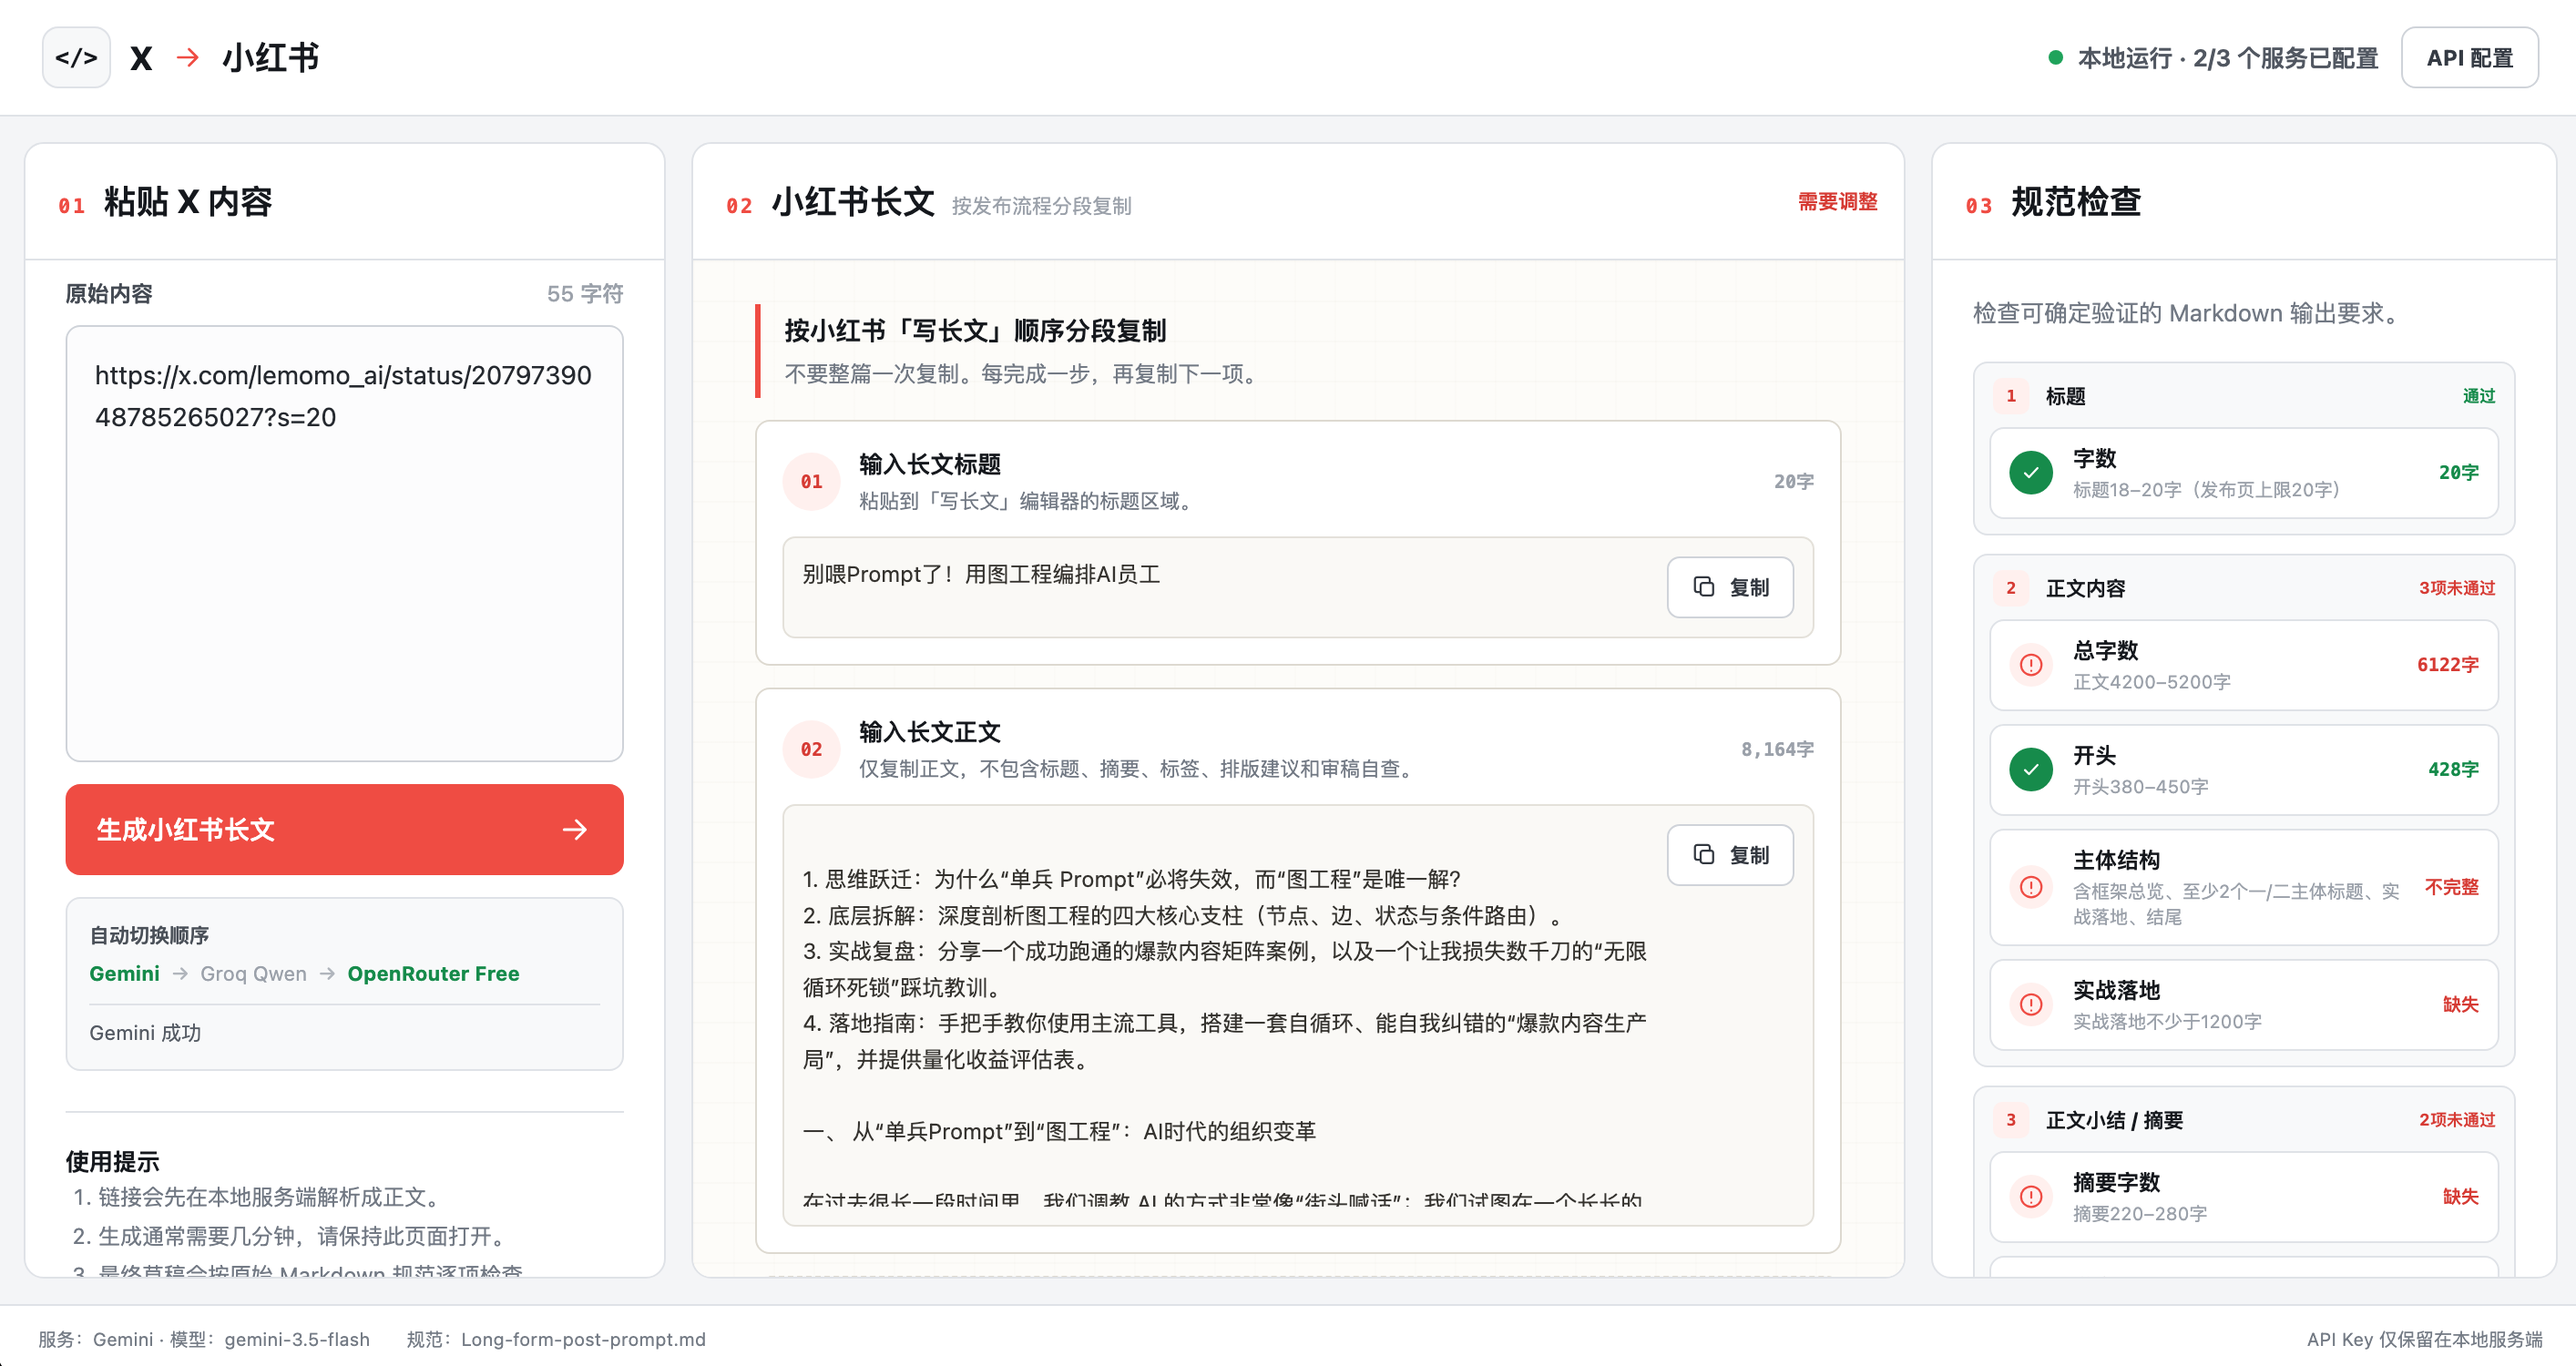
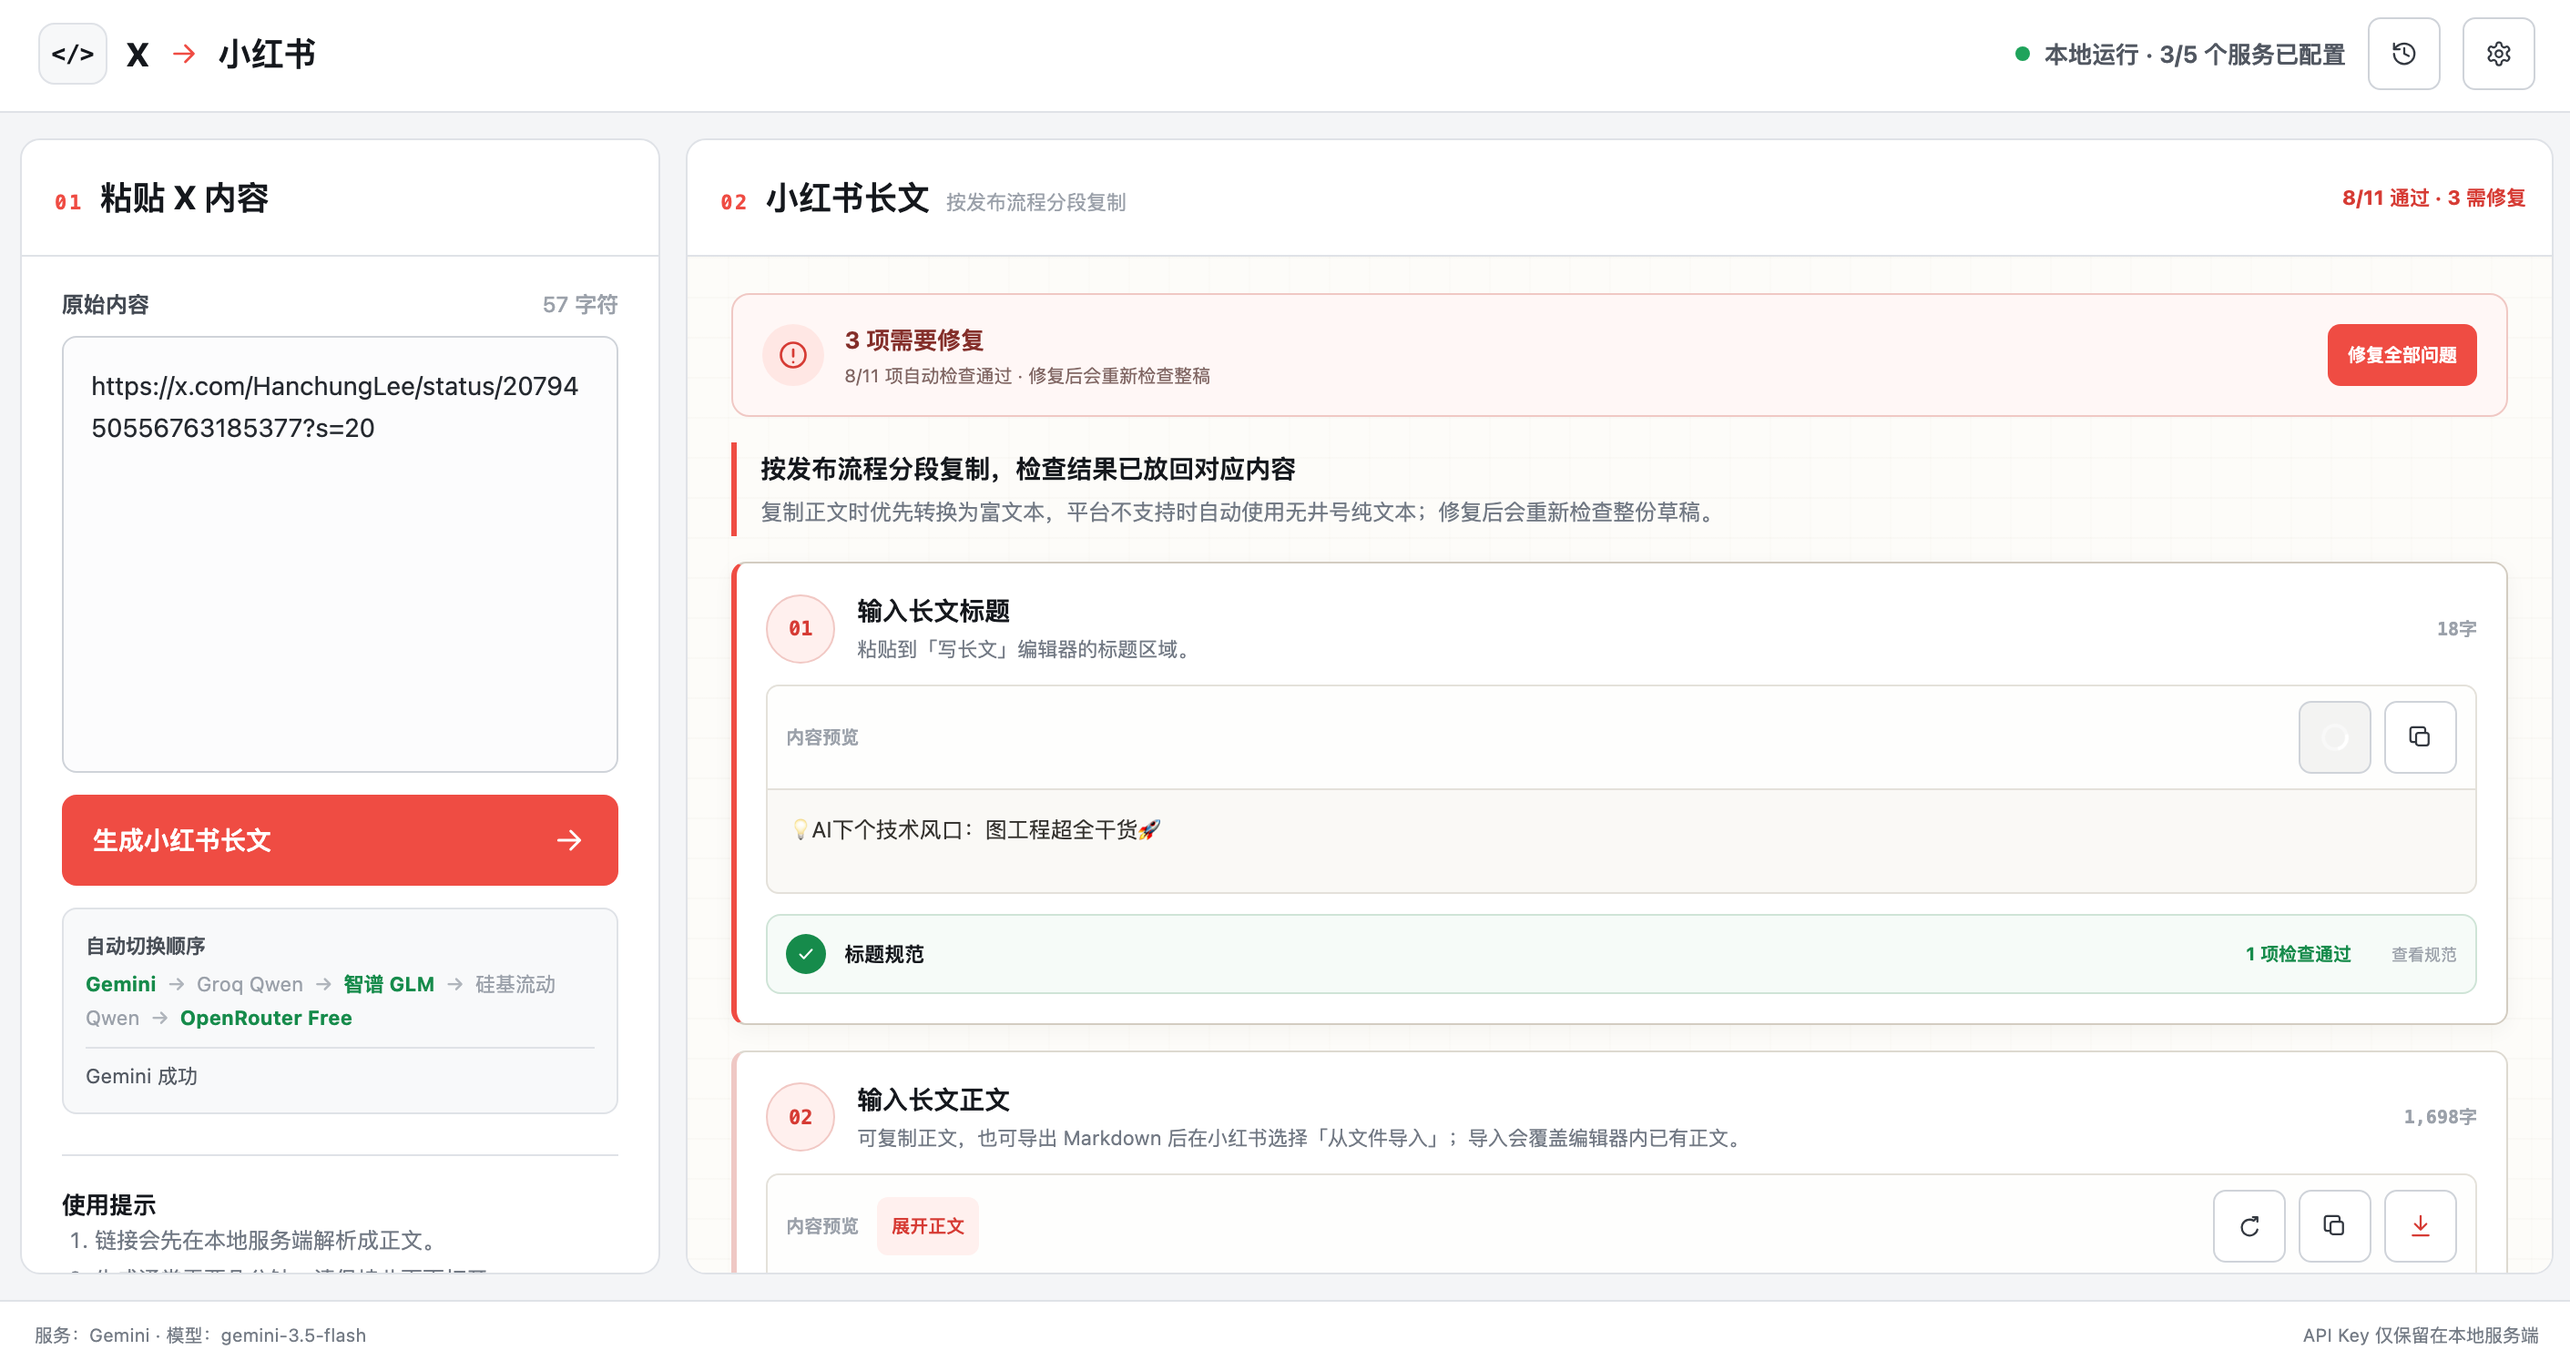
update product screenshot

diff --git a/README.md b/README.md
@@ -1,7 +1,9 @@
-![Demo1](./product-assets/demo1.png)
-![Demo2](./product-assets/demo2.png)
-![Demo3](./product-assets/demo3.png)
-![Demo4](./product-assets/demo4.png)
+![首页](./product-assets/demo1.png)
+![笔记预览](./product-assets/demo2.png)
+![历史笔记](./product-assets/demo5.png)
+![个性化配置](./product-assets/demo6.png)
+![API 配置](./product-assets/demo7.png)
+
 # X → 小红书「写长文」工具
 
 把 X 上值得深入讨论的 AI、开发者工具与工作流内容，转化为可审稿、可检查、可按步骤发布的小红书「写长文」草稿。
